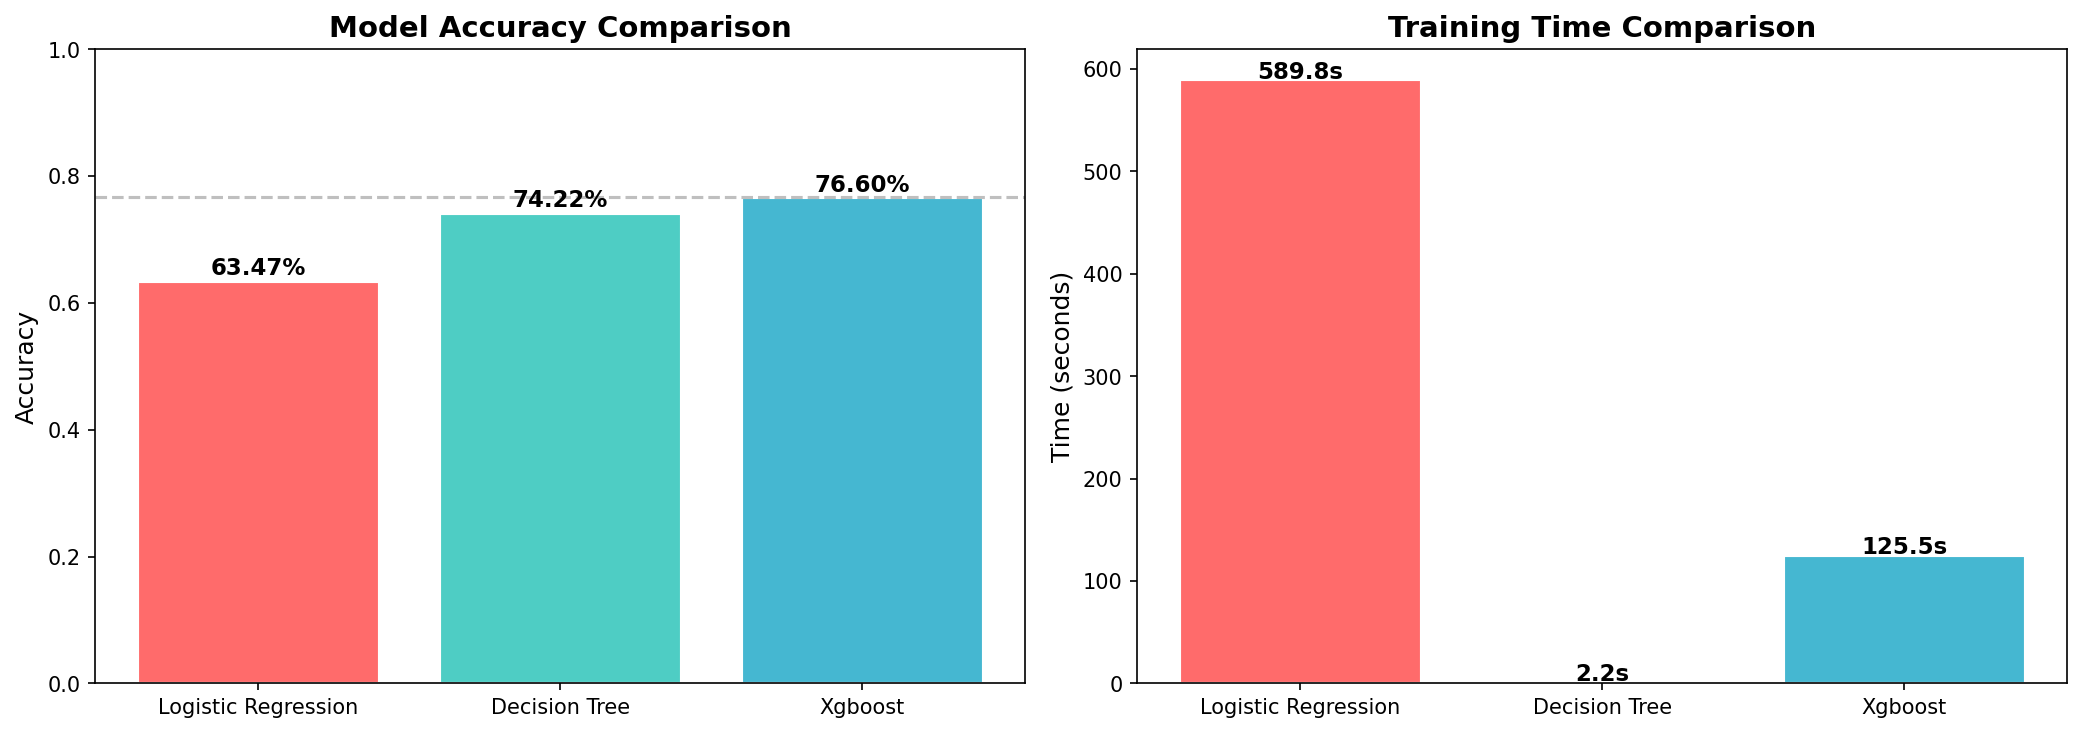
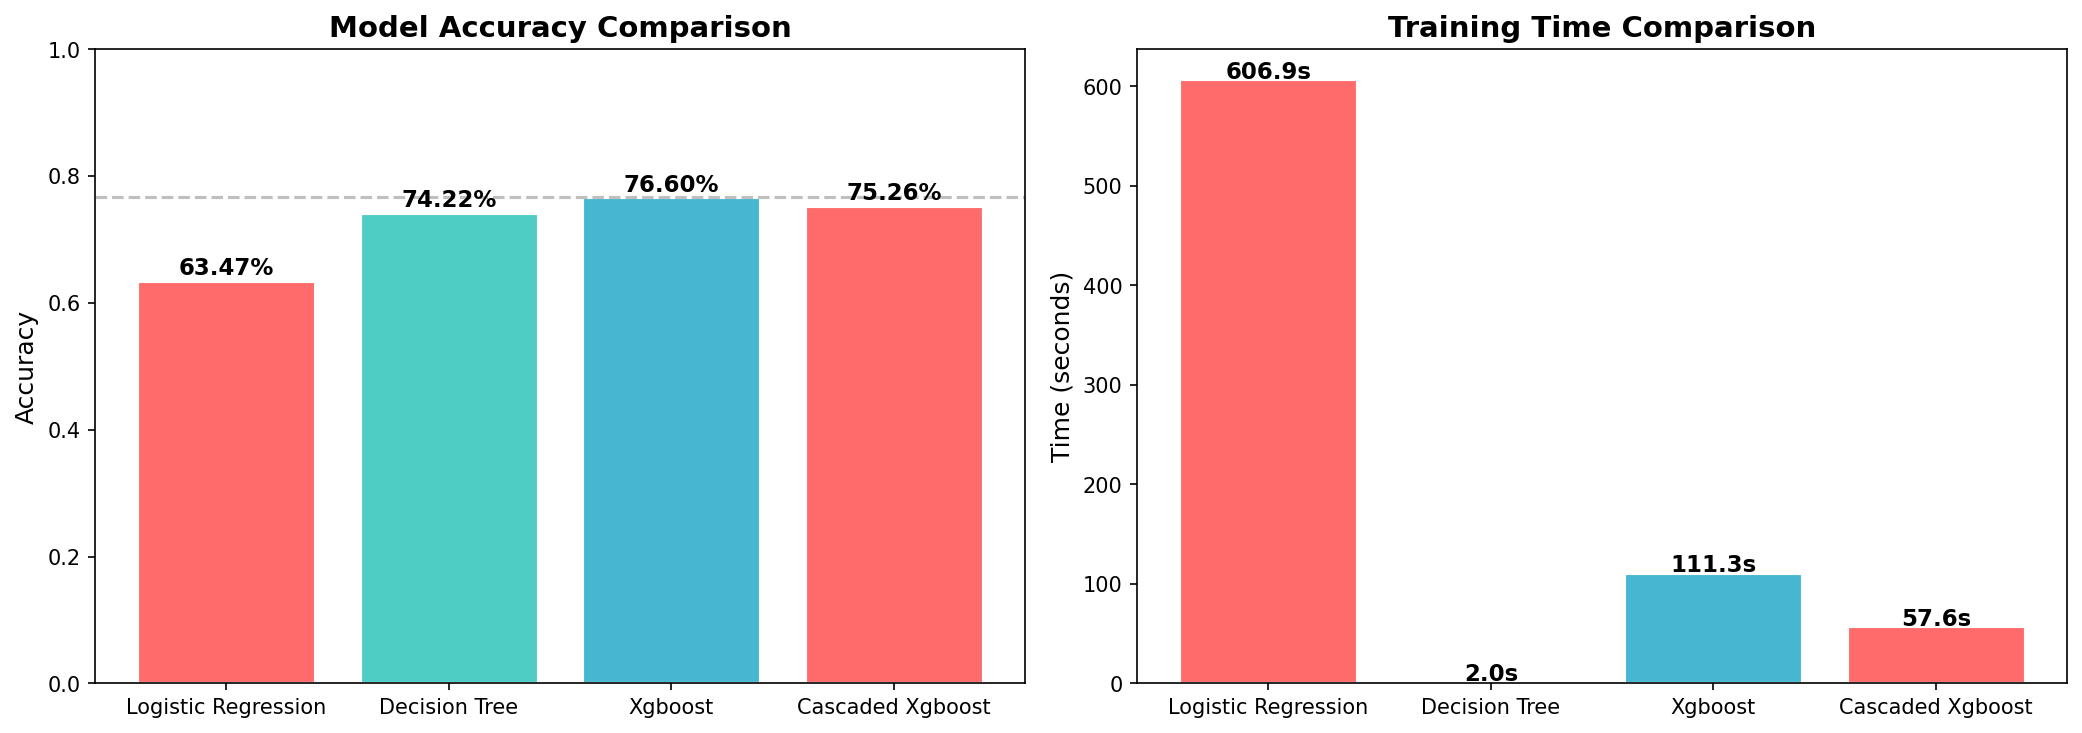
Refined 3-model architecture and comprehensive defense documentation updates

diff --git a/src/train.py b/src/train.py
@@ -207,6 +207,8 @@ def train_and_evaluate():
         joblib.dump(model, model_path)
         print(f"  [SAVE] {model_path}")
 
+
+
     # 8. Summary
     print(f"\n{'=' * 70}")
     print("  MODEL COMPARISON SUMMARY")
@@ -303,7 +305,7 @@ def train_and_evaluate():
     plt.close(fig)
     print(f"  [PLOT] {path}")
 
-    # 8d. Per-Class Recall Comparison (all 3 models)
+    # 8d. Per-Class Recall Comparison (all models)
     fig, ax = plt.subplots(figsize=(14, 6))
     x = np.arange(len(class_names))
     width = 0.25

diff --git a/app.py b/app.py
@@ -300,7 +300,7 @@ if uploaded_file is not None:
 
     # Data preview
     with st.expander("Preview Uploaded Data", expanded=False):
-        st.dataframe(df.head(10), use_container_width=True)
+        st.dataframe(df.head(10))
 
     # ── Load model & encoder ─────────────────────────────────────────
     model = load_model(selected_model_key)